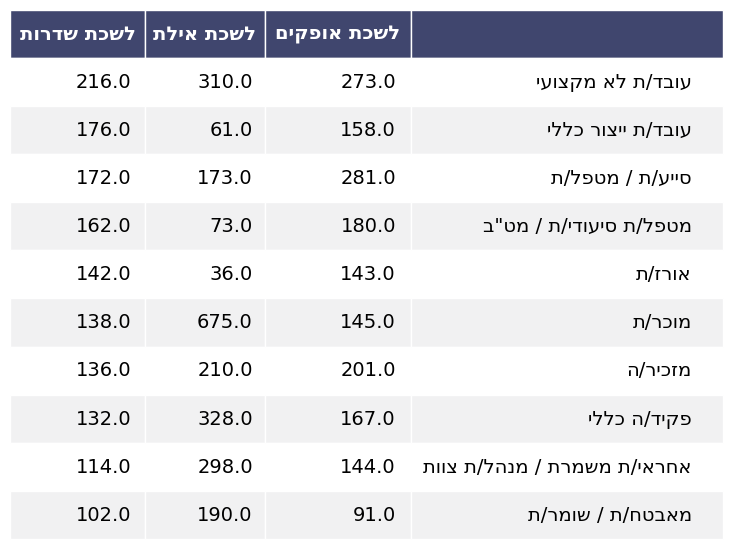
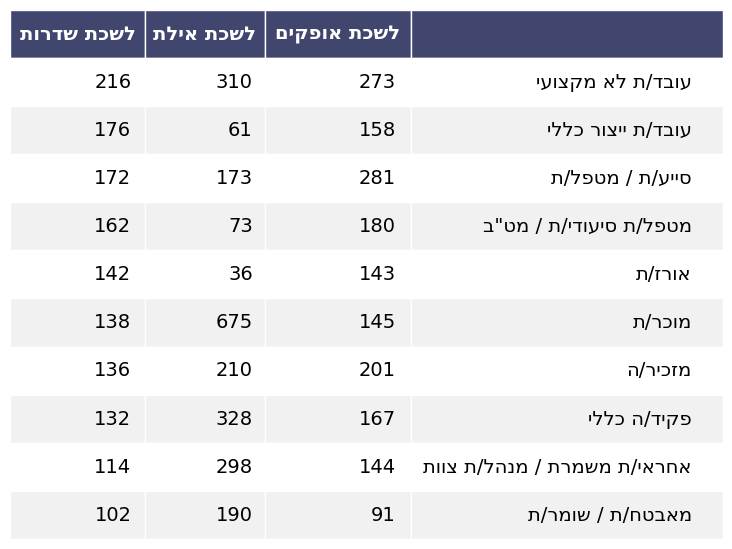
tables in df

diff --git a/utils.py b/utils.py
@@ -896,6 +896,7 @@ def get_tables_pptx(obj):
         except KeyError:
             top10_sheet = top10_sheet
         top10_sheet = top10_sheet.head(n=10)  # take first 20
+        top10_sheet = top10_sheet.round(0).astype(int)  # round to integer
         # save to a png picture the table
         df = get_hebrew_translation(top10_sheet)  # hebrew translation
         df.reset_index(level=0, inplace=True)  # set the index as a column
